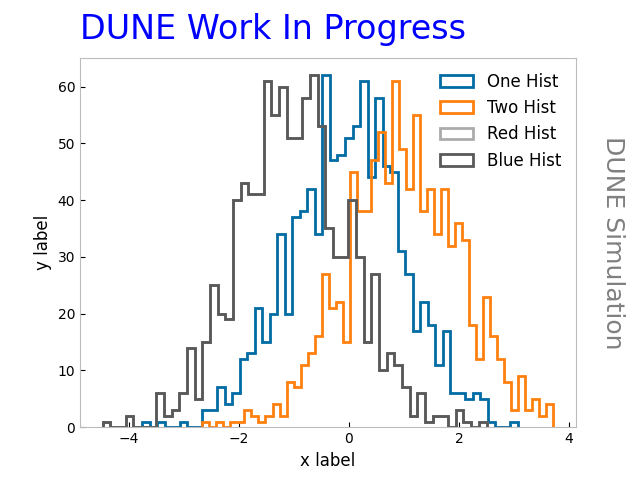
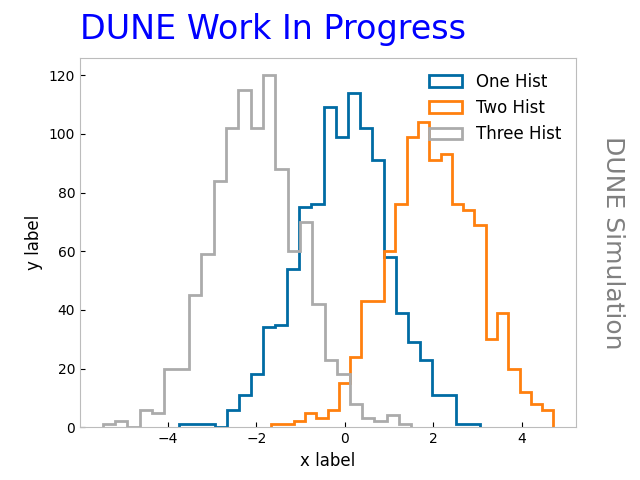
Fix HistOverlay plot
Remove extra legend entry, space out the histograms more, and reduce number of bins for readability

diff --git a/examples/matplotlib/example.py b/examples/matplotlib/example.py
@@ -192,14 +192,14 @@ def HistStacked():
 ### Overlayed histogram example ###
 def HistOverlay():
     x1 = np.random.normal( 0, 1, 1000)
-    x2 = np.random.normal( 1, 1, 1000)
-    x3 = np.random.normal(-1, 1, 1000)
-    nbins = 50
+    x2 = np.random.normal( 2, 1, 1000)
+    x3 = np.random.normal(-2, 1, 1000)
+    nbins = 25
     plt.figure()
+    plt.style.use('tableau-colorblind10')
     plt.hist(x1, nbins, histtype='step', linewidth=2, label="One Hist")
     plt.hist(x2, nbins, histtype='step', linewidth=2, label="Two Hist")
-    plt.hist(x3, nbins, histtype='step', linewidth=2, label="Red Hist")
-    plt.hist(x3, nbins, histtype='step', linewidth=2, label="Blue Hist")
+    plt.hist(x3, nbins, histtype='step', linewidth=2, label="Three Hist")
     plt.xlabel('x label')
     plt.ylabel('y label')
     dunestyle.WIP()
